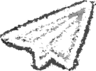
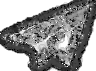
fix: галерея по размеру фото и крестик поиска по теме
Контейнер галереи подстраивается под пропорции снимка, иконки в шапке
утолщены, крестик очистки поиска берёт цвет из текущего фона.

diff --git a/public/editorial.html b/public/editorial.html
@@ -16,7 +16,7 @@
       --faint: #5f5d58;
       --line: rgba(255, 255, 255, 0.15);
       --panel: rgba(13, 13, 13, 0.94);
-      --header-height: 80px;
+      --header-height: 96px;
       --footer-height: 82px;
       --index-font-scale: 1;
       --article-font-scale: 1;
@@ -107,7 +107,7 @@
     .header-logo { justify-self: start; }
     .brand-logo {
       display: block;
-      width: 64px;
+      width: 96px;
       height: auto;
       filter: invert(1) grayscale(1);
       opacity: 0.9;
@@ -131,23 +131,22 @@
     }
     .header-icon {
       display: inline-grid;
-      width: 44px;
-      height: 44px;
+      width: 60px;
+      height: 60px;
       place-items: center;
       color: var(--muted);
       text-decoration: none;
       transition: transform 180ms var(--ease);
     }
-    .header-icon svg { width: 21px; height: 21px; }
     .header-icon-image {
-      width: 27px;
-      height: 27px;
+      width: 41px;
+      height: 41px;
       object-fit: contain;
-      filter: brightness(0) invert(1);
+      filter: brightness(0) invert(1) contrast(1.18);
       opacity: 0.72;
       transition: filter 180ms ease, opacity 180ms ease, transform 180ms var(--ease);
     }
-    body.paper-beige .header-icon-image { filter: brightness(0); }
+    body.paper-beige .header-icon-image { filter: brightness(0) contrast(1.18); }
     .header-icon:hover .header-icon-image,
     .header-icon[aria-expanded="true"] .header-icon-image {
       opacity: 1;
@@ -158,7 +157,7 @@
     .settings-panel {
       position: fixed;
       z-index: 40;
-      top: 72px;
+      top: 84px;
       right: 32px;
       width: min(320px, calc(100vw - 32px));
       padding: 20px;
@@ -212,6 +211,7 @@
       padding: calc(var(--header-height) + 25px) 32px 180px;
     }
     .index-search {
+      position: relative;
       display: block;
       margin-bottom: clamp(34px, 4vw, 52px);
     }
@@ -227,8 +227,33 @@
       font-weight: 700;
       line-height: 1.08;
     }
+    .index-search.has-value .index-search-input {
+      padding-right: clamp(28px, 3vw, 40px);
+    }
     .index-search-input::placeholder { color: var(--muted); opacity: 1; }
-    .index-search-input::-webkit-search-cancel-button { cursor: pointer; }
+    .index-search-input::-webkit-search-cancel-button,
+    .index-search-input::-webkit-search-decoration,
+    .index-search-input::-moz-search-clear-button {
+      display: none;
+      appearance: none;
+      -webkit-appearance: none;
+    }
+    .index-search-clear {
+      position: absolute;
+      top: 50%;
+      right: 0;
+      width: clamp(22px, 2.2vw, 30px);
+      height: clamp(22px, 2.2vw, 30px);
+      color: var(--text);
+      font-size: clamp(22px, 2.2vw, 30px);
+      font-weight: 700;
+      line-height: 1;
+      opacity: 0.72;
+      transform: translateY(-50%);
+      transition: opacity 180ms ease, transform 180ms var(--ease);
+    }
+    .index-search-clear:hover { opacity: 1; }
+    .index-search-clear:active { transform: translateY(-50%) scale(0.94); }
     .index-list { list-style: none; }
     .index-item + .index-item { margin-top: 43px; }
     .index-button {
@@ -328,9 +353,11 @@
     }
     .gallery-track {
       position: relative;
-      aspect-ratio: 1 / 1;
+      width: 100%;
+      min-height: 120px;
       overflow: hidden;
       background: color-mix(in srgb, var(--text) 5%, transparent);
+      transition: height 220ms ease;
     }
     .gallery-slide {
       position: absolute;
@@ -356,9 +383,9 @@
     }
     .gallery-slide img,
     .gallery-slide video {
+      display: block;
       width: 100%;
-      height: 100%;
-      object-fit: contain;
+      height: auto;
       opacity: 0;
       transition: opacity 220ms ease;
     }
@@ -380,6 +407,9 @@
       min-width: 34px;
       min-height: 34px;
       color: var(--muted);
+      font-size: 22px;
+      font-weight: 700;
+      line-height: 1;
     }
     .gallery-action:hover { color: var(--text); }
 
@@ -456,21 +486,20 @@
     }
 
     @media (max-width: 768px) {
-      :root { --header-height: 72px; }
+      :root { --header-height: 82px; }
       body { overflow-y: auto; }
       .site-header {
         position: fixed;
         height: var(--header-height);
-        grid-template-columns: 48px minmax(0, 1fr) auto;
+        grid-template-columns: 70px minmax(0, 1fr) auto;
         gap: 10px;
-        padding: 12px 14px;
+        padding: 10px 14px;
       }
-      .brand-logo { width: 46px; }
+      .brand-logo { width: 69px; }
       .header-actions { gap: 0; }
-      .header-icon { width: 38px; height: 38px; }
-      .header-icon svg { width: 19px; height: 19px; }
-      .header-icon-image { width: 24px; height: 24px; }
-      .settings-panel { top: 74px; right: 14px; }
+      .header-icon { width: 52px; height: 52px; }
+      .header-icon-image { width: 36px; height: 36px; }
+      .settings-panel { top: 76px; right: 14px; }
       .archive-layout {
         display: block;
         height: auto;
@@ -562,8 +591,9 @@
 
   <main class="archive-layout">
     <nav class="article-index" aria-label="Список статей">
-      <label class="index-search">
+      <label class="index-search" id="article-search-wrap">
         <input class="index-search-input" id="article-search" type="search" placeholder="Поиск" autocomplete="off" aria-label="Поиск по публикациям">
+        <button class="index-search-clear" id="article-search-clear" type="button" hidden aria-label="Очистить поиск">×</button>
       </label>
       <div class="status-message" id="index-status">загрузка_</div>
       <ol class="index-list" id="index-list"></ol>
@@ -905,16 +935,49 @@
 
     function initGalleries(scope) {
       scope.querySelectorAll("[data-gallery]").forEach(gallery => {
+        const track = gallery.querySelector(".gallery-track");
         const slides = Array.from(gallery.querySelectorAll(".gallery-slide"));
         const count = gallery.querySelector(".gallery-count");
         let active = 0;
+
+        const syncTrackHeight = () => {
+          if (!track) return;
+          const slide = slides[active];
+          const media = slide?.querySelector("img, video");
+          if (!media) {
+            track.style.height = "";
+            track.style.minHeight = "120px";
+            return;
+          }
+          const setHeight = () => {
+            const width = media.naturalWidth || media.videoWidth || 0;
+            const height = media.naturalHeight || media.videoHeight || 0;
+            if (!width || !height) return;
+            const trackWidth = track.getBoundingClientRect().width;
+            if (!trackWidth) return;
+            track.style.minHeight = "0";
+            track.style.height = `${(trackWidth * height) / width}px`;
+          };
+          if (media instanceof HTMLImageElement) {
+            if (media.complete && media.naturalWidth > 0) setHeight();
+            else media.addEventListener("load", setHeight, { once: true });
+          } else if (media.readyState >= HTMLMediaElement.HAVE_METADATA) {
+            setHeight();
+          } else {
+            media.addEventListener("loadedmetadata", setHeight, { once: true });
+          }
+        };
+
         slides.forEach(slide => {
           const media = slide.querySelector("img, video");
           if (!media) {
             slide.classList.add("is-error");
             return;
           }
-          const markLoaded = () => slide.classList.add("is-loaded");
+          const markLoaded = () => {
+            slide.classList.add("is-loaded");
+            if (slide.classList.contains("is-active")) syncTrackHeight();
+          };
           const markError = () => slide.classList.add("is-error");
           if (media instanceof HTMLImageElement) {
             media.loading = "eager";
@@ -932,11 +995,22 @@
             media.addEventListener("error", markError, { once: true });
           }
         });
+
         const show = next => {
           active = (next + slides.length) % slides.length;
           slides.forEach((slide, index) => slide.classList.toggle("is-active", index === active));
           count.textContent = `${active + 1} / ${slides.length}`;
+          syncTrackHeight();
         };
+
+        if (typeof ResizeObserver !== "undefined" && track) {
+          const observer = new ResizeObserver(() => syncTrackHeight());
+          observer.observe(track);
+        } else {
+          window.addEventListener("resize", syncTrackHeight);
+        }
+
+        syncTrackHeight();
         gallery.querySelector(".gallery-prev").addEventListener("click", () => show(active - 1));
         gallery.querySelector(".gallery-next").addEventListener("click", () => show(active + 1));
       });
@@ -1076,11 +1150,31 @@
     }
 
     function initSearch() {
+      const wrap = document.getElementById("article-search-wrap");
       const input = document.getElementById("article-search");
+      const clear = document.getElementById("article-search-clear");
+
+      const syncClear = () => {
+        const hasValue = Boolean(input.value);
+        clear.hidden = !hasValue;
+        wrap.classList.toggle("has-value", hasValue);
+      };
+
       input.addEventListener("input", () => {
         state.searchQuery = input.value;
         renderIndex();
+        syncClear();
       });
+
+      clear.addEventListener("click", () => {
+        input.value = "";
+        state.searchQuery = "";
+        renderIndex();
+        syncClear();
+        input.focus();
+      });
+
+      syncClear();
     }
 
     initSettings();